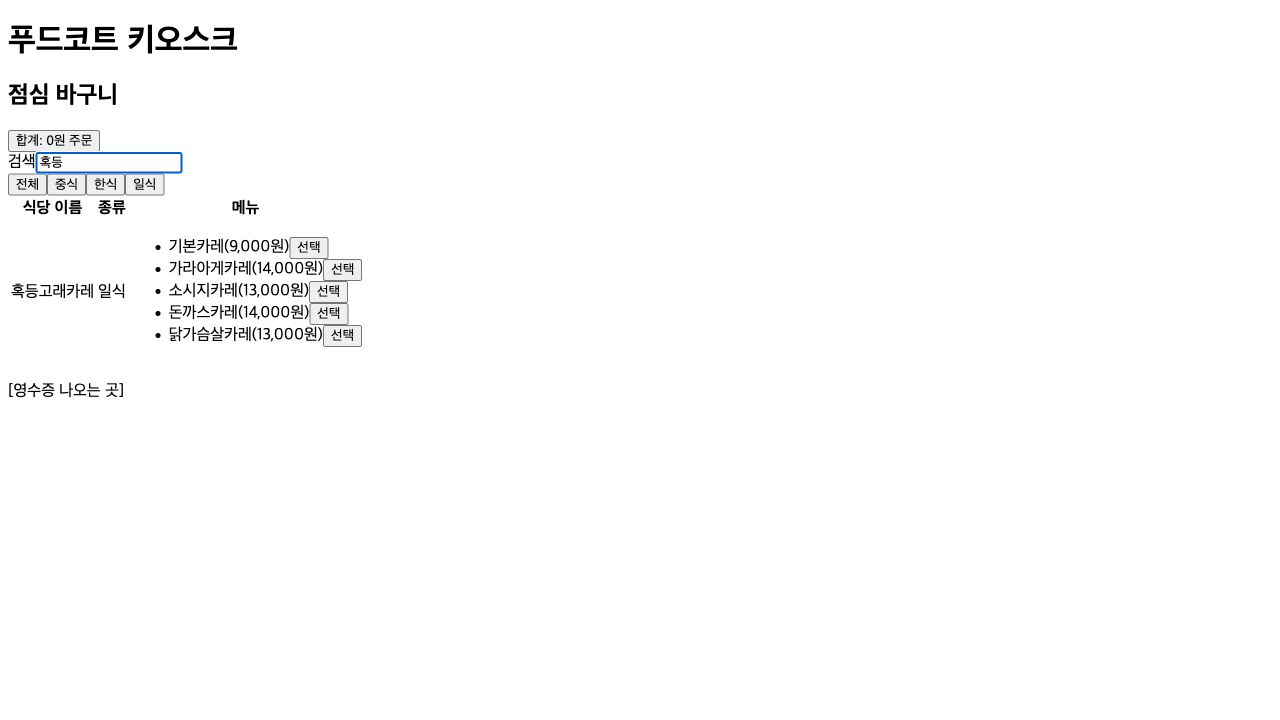
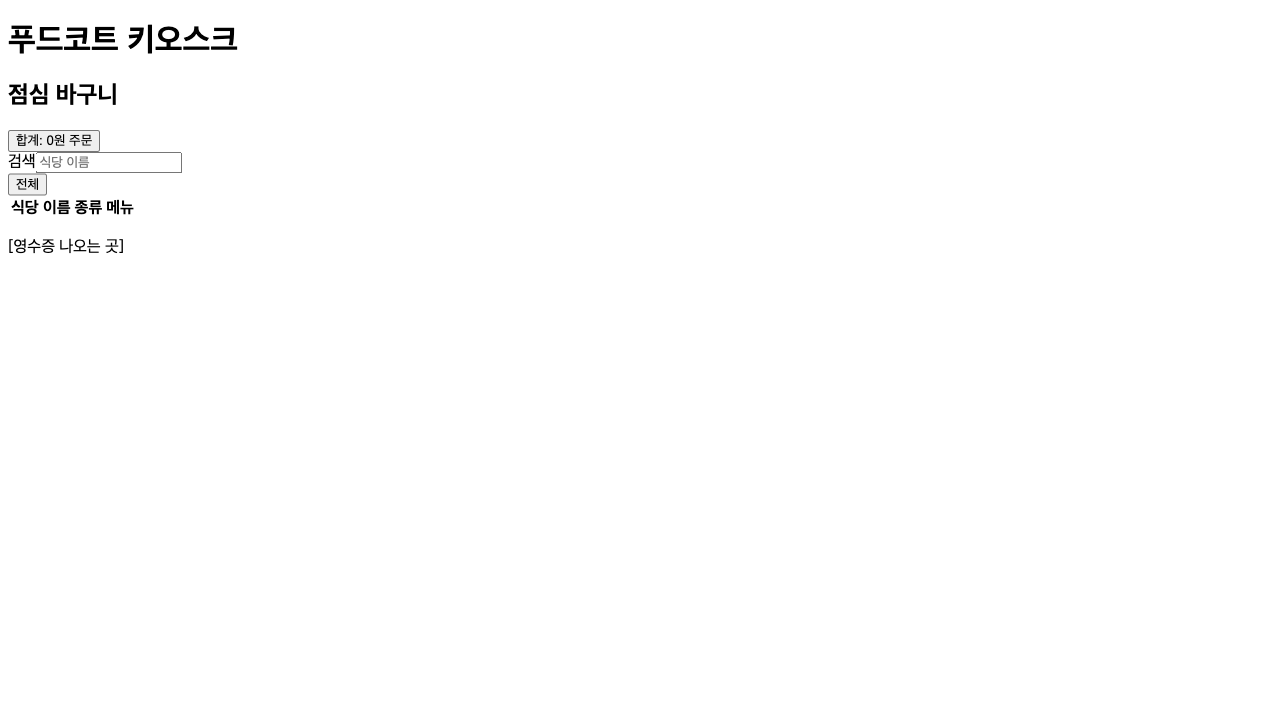
lint

diff --git a/react-app/src/App.tsx b/react-app/src/App.tsx
@@ -33,12 +33,13 @@ export default function App() {
 
   useEffect(() => {
     async function fetchRestaurants() {
+      // eslint-disable-next-line no-useless-catch
       try {
-        const url = 'http:/127.0.0.1:3000/restaurants';
+        const url = 'http://localhost:3000/restaurants';
         const response = await fetch(url);
         const { restaurants } = await response.json();
         setRestaurantsData(restaurants);
-      } catch (error) { console.log(error); }
+      } catch (error) { throw error; }
     }
     fetchRestaurants();
 

diff --git a/react-app/src/utils/requestPostOrders.ts b/react-app/src/utils/requestPostOrders.ts
@@ -13,7 +13,7 @@ const requestPostOrders: requestPostOrdersProps = (
     totalPrice,
   };
 
-  const url = 'http://127.0.0.1:3000/orders';
+  const url = 'http://localhost:3000/orders';
   return fetch(url, {
     method: 'POST',
     headers: {
